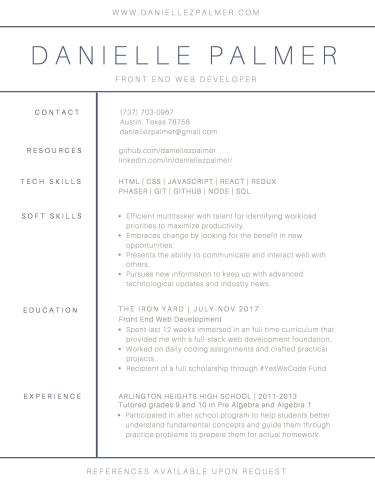
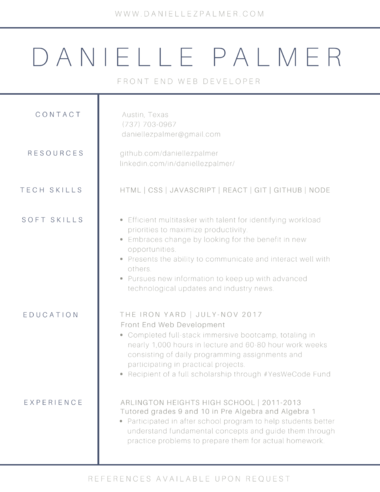
Added id to ports, new resume img, styled media query for ports

diff --git a/index.html b/index.html
@@ -53,6 +53,7 @@
     </div>
   </div>
     <a id="aboutMe">
+      <div id="about">
       <p>
       Hi, I'm Danielle!
     </p>
@@ -61,22 +62,26 @@
     <p>
     After receiving a full-ride scholarship through the #YesWeCode Fund, I graduated from The Iron Yard where I completed a full-stack immersive bootcamp, totaling in nearly 1,000 hours in lecture and 60-80 hour work weeks consisting of daily programming assignments and participating in practical projects. Of all the things I learned during my time at TIY, the most valuable was learning HOW to learn. Persistence pays off in the way of completed projects and pride in what I’ve created. How many people get to do what they are truly passionate about? Now I know at least one.
     </p>
+  </div>
     </a>
     <a id="portfolio">
-      <div class="ports">
+      <div class="ports" id="port1">
       </div>
-      <div class="ports">
+      <div class="ports" id="port2">
       </div>
-      <div class="ports">
+      <div class="ports" id="port3">
       </div>
-      <div class="ports">
+      <div class="ports" id="port4">
       </div>
     </a>
     <a id="resume">
       <div class="border">
-<a href="https://drive.google.com/file/d/0B_m1uj6yyQLnV2xrb0QtdjRaR0k/view?usp=sharing" target="_blank"><img src="./images/resume.png" id="resumee" alt="Photo of Danielle Palmer's resume.">
-</div>
+        <div id="emuser">
+<a href="https://drive.google.com/file/d/0B_m1uj6yyQLnakpiSUlTaEtLQUk/view?usp=sharing" target="_blank"><img src="./images/resume.png" id="resumee" alt="Photo of Danielle Palmer's resume.">
     </a>
+  </div>
+
+    </div>
     <a id="contact">
       <p id="contactMe">  Contact Me!</br>
         Phone: (737) 703-0967</br>

diff --git a/style.css b/style.css
@@ -1,6 +1,6 @@
 body {
   max-width: 380px;
-  margin-bottom: 60px;
+  margin-bottom: 70px;
 }
 
 #nav {
@@ -148,7 +148,6 @@ a {
 
 #portfolio {
   font-family: "Life Savers";
-  text-align: justify;
   font-size: 25px;
 }
 
@@ -244,11 +243,35 @@ footer {
     margin-left: 45px;
   }
 
-  #aboutMe {
-  padding:10px;
+  #about {
+    padding:30px;
   }
 
-  po
+  .ports {
+    float:left;
+    margin-right:20px;
+  }
+
+#port2 {
+  margin-top: -15px;
+}
+
+  .border {
+    border:none;
+  }
+
+  #emuser {
+    border:solid;
+    border-width: 2px;
+    border-color: #4a5571;
+    margin-top: 800px;
+    margin-right: 435px;
+
+  }
+#contactMe {
+
+}
+
 }
 
 @media screen and (min-width: 980px) {
